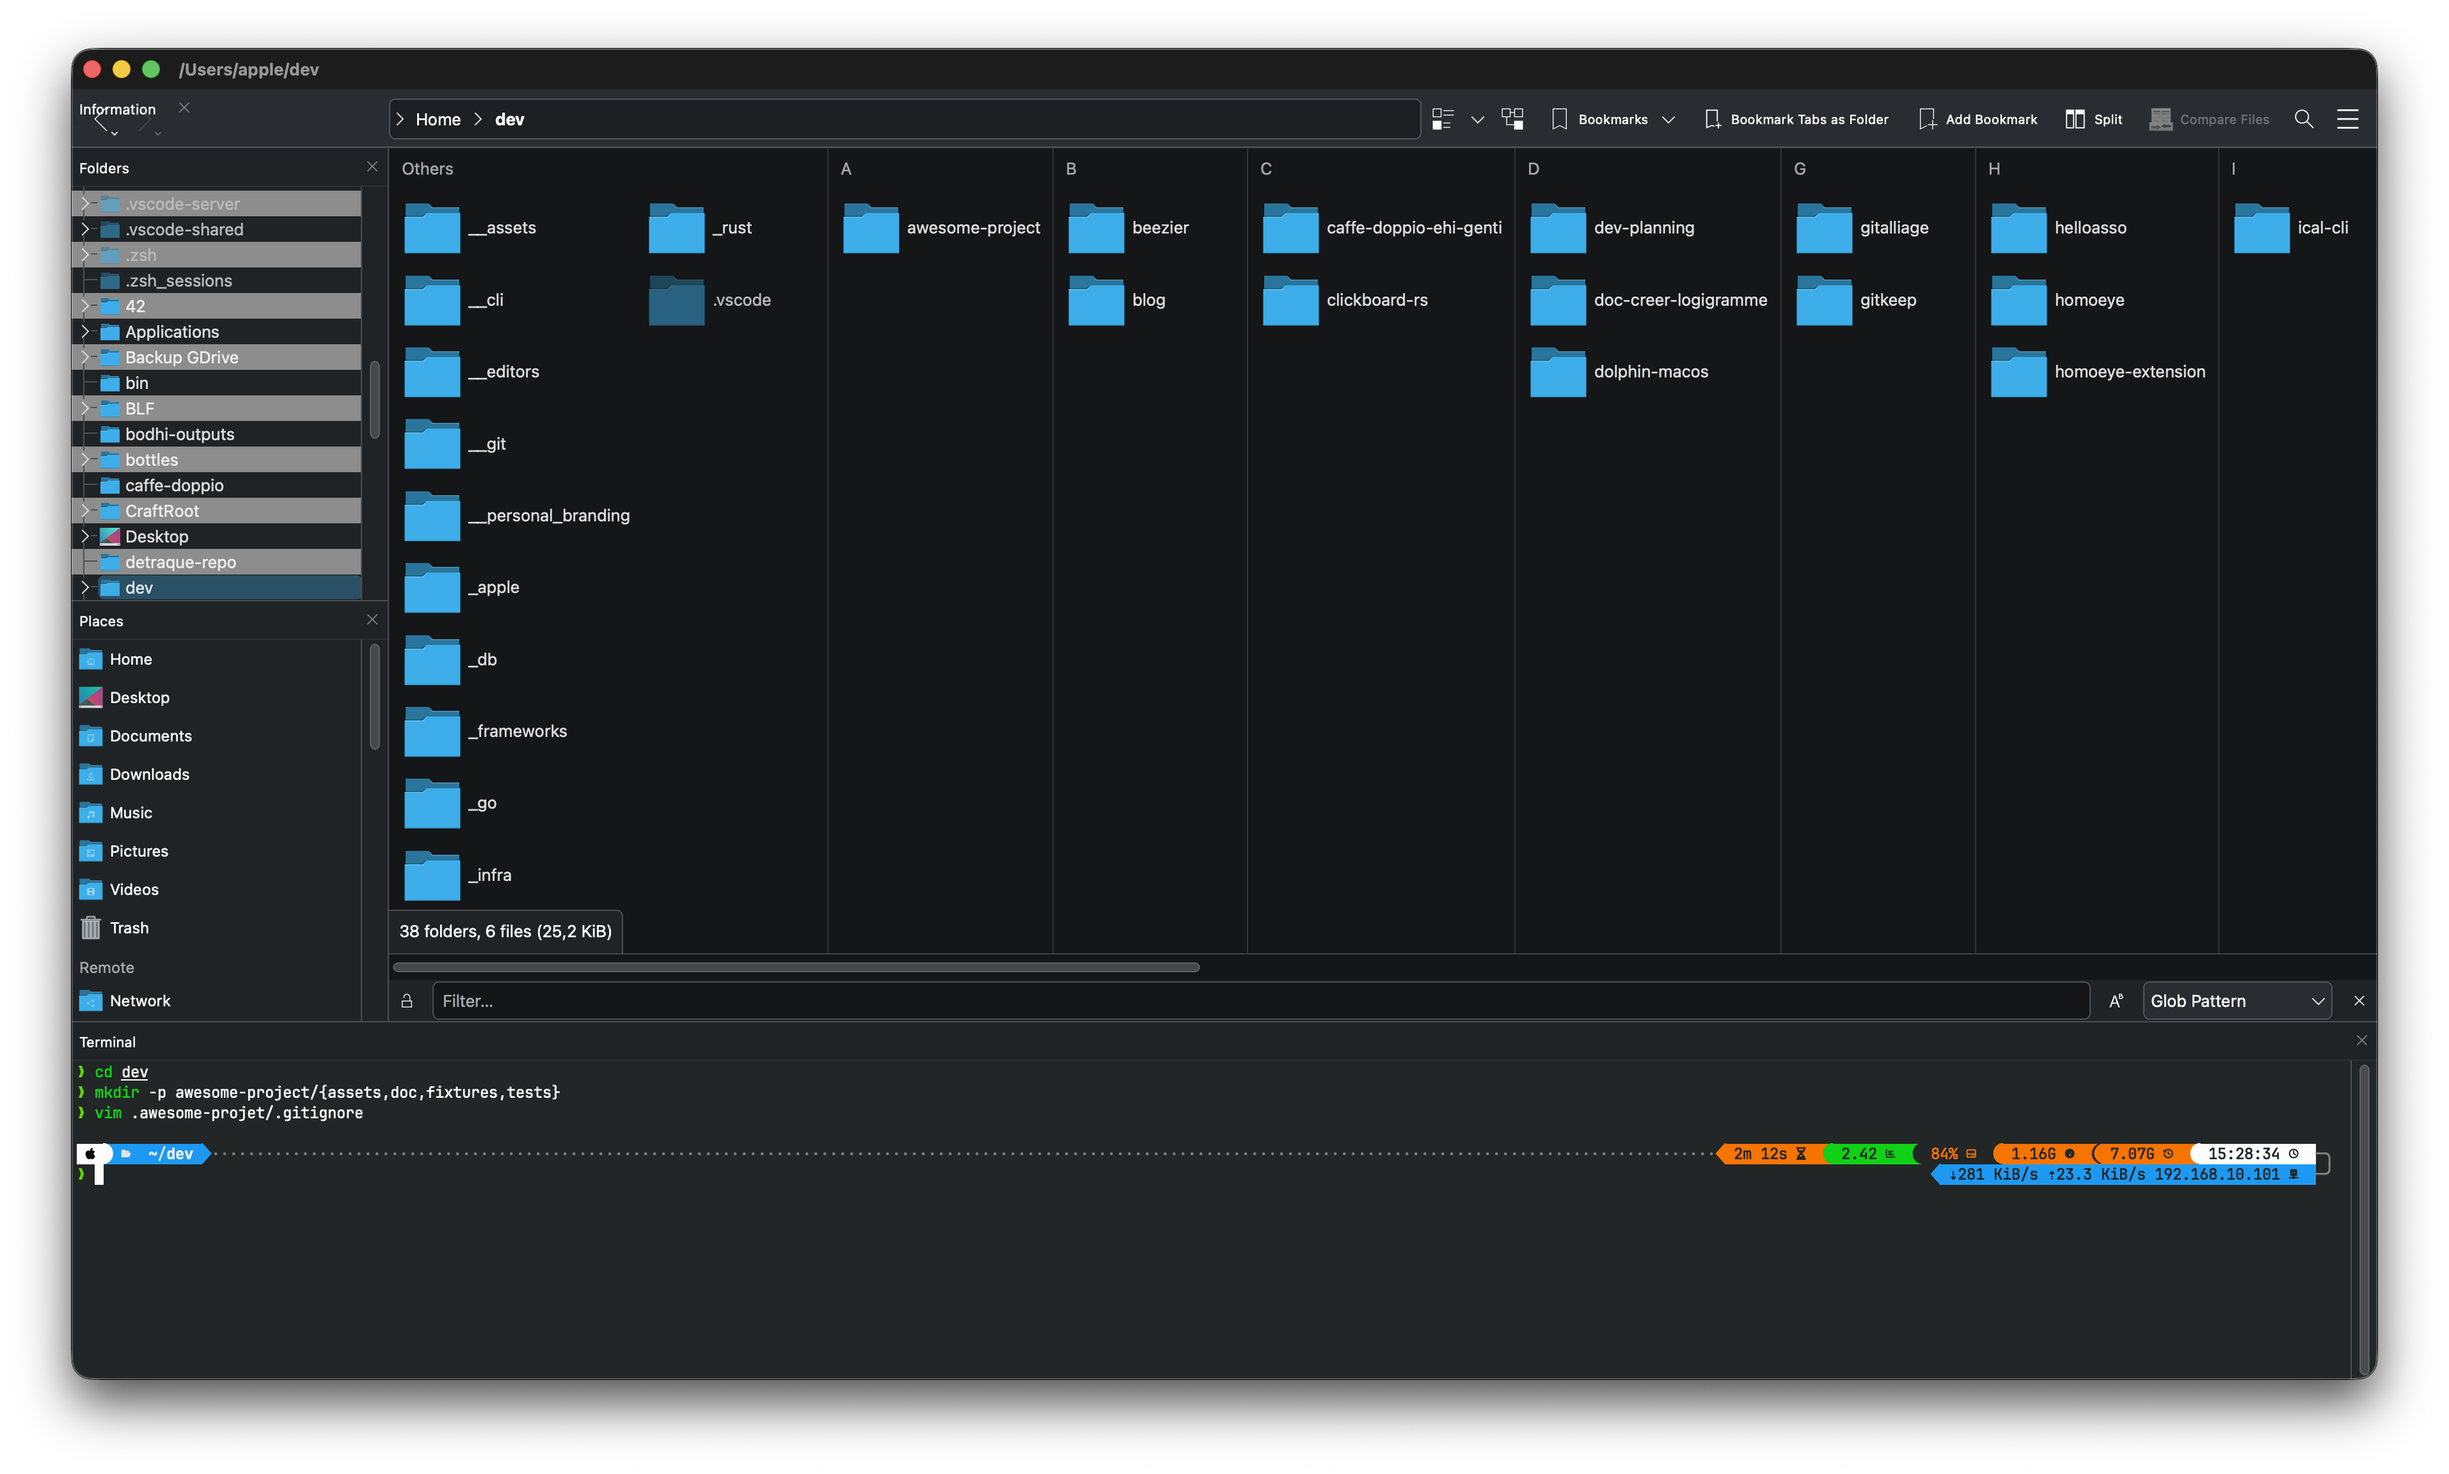
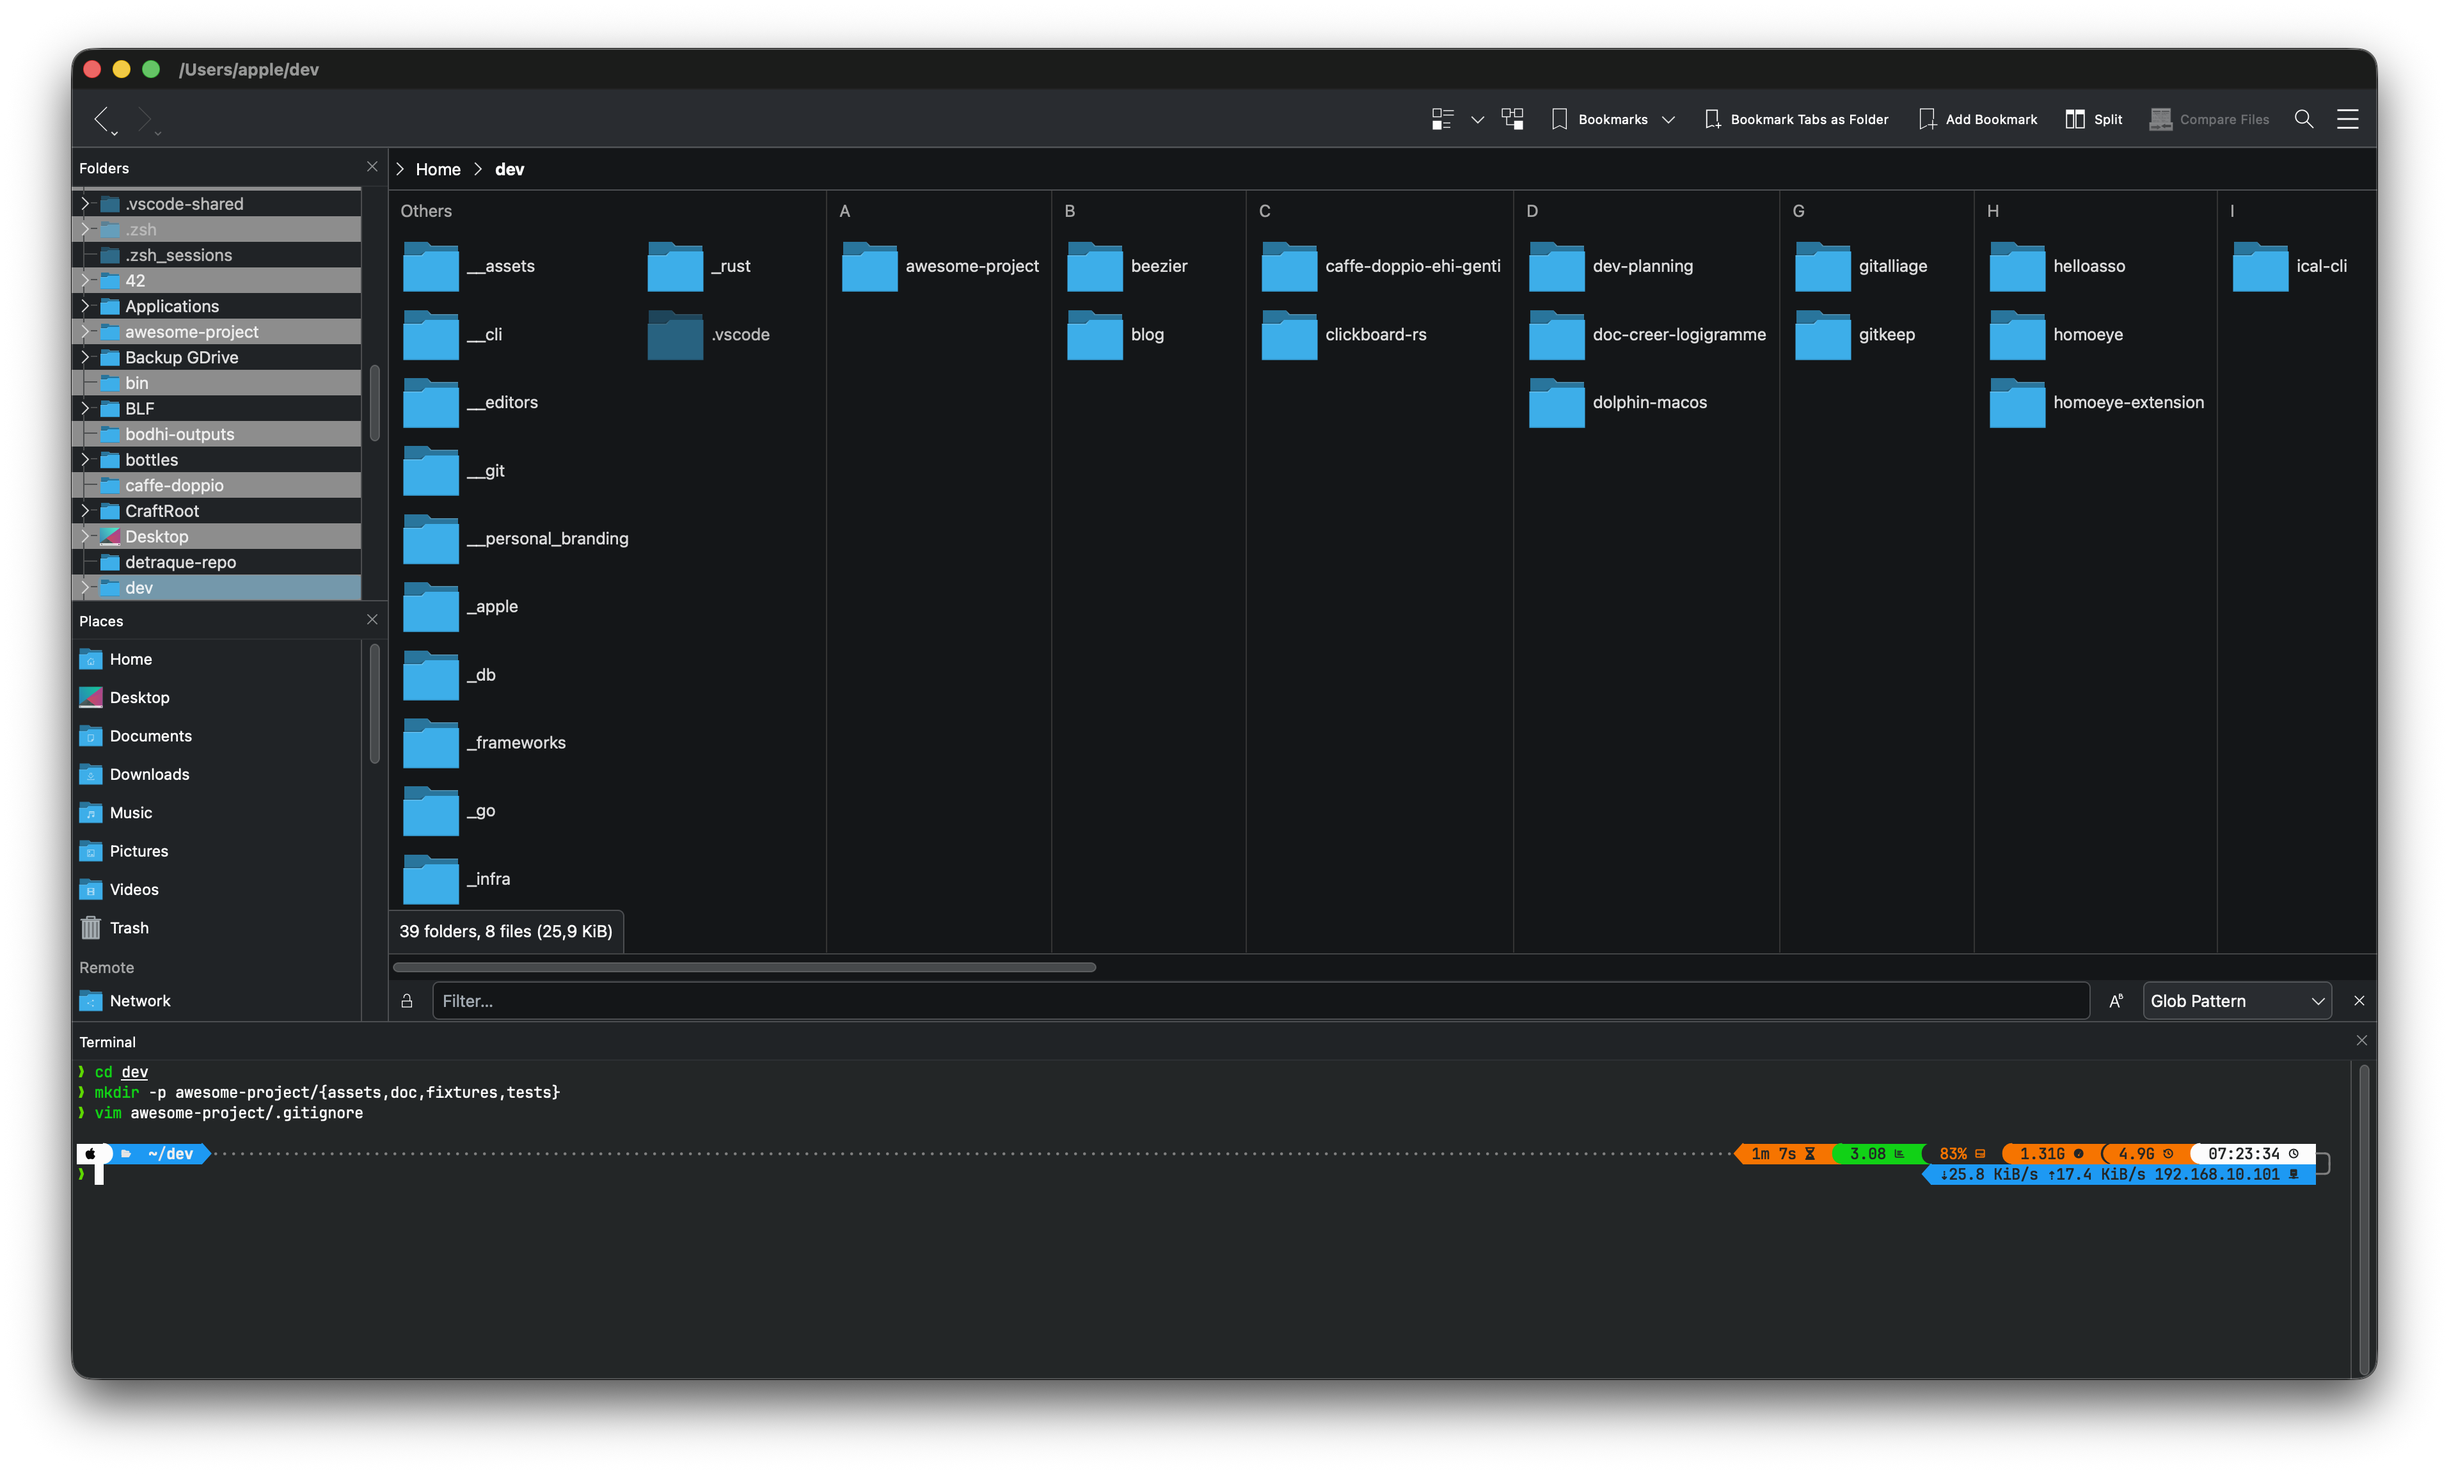
Update screenshot and bump macOS version

diff --git a/README.md b/README.md
@@ -3,7 +3,7 @@
 # 🐬 Dolphin for macOS
 
 **KDE's file manager, built for Apple silicon.**<br>
-Upstream Dolphin on KDE Frameworks 6, with the fixes it needs on macOS: it launches from the Finder and the Dock, embeds a terminal, and opens your terminal app in the current folder.
+Upstream Dolphin on @KDE Frameworks 6, with the fixes it needs on macOS: it launches from the Finder and the Dock, embeds a terminal, and opens your terminal app in the current folder.
 
 [![License: GPL-2.0-or-later](https://img.shields.io/badge/license-GPL--2.0--or--later-blue)](LICENSES/)
 [![macOS 26 · arm64](https://img.shields.io/badge/macOS_26-arm64-000000?logo=apple&logoColor=F0F0F0)](#requirements)
@@ -13,12 +13,12 @@ Upstream Dolphin on KDE Frameworks 6, with the fixes it needs on macOS: it launc
 
 ![Dolphin on macOS: a folder in icon view, the Places panel on the left, and the embedded terminal panel at the bottom with a zsh prompt in the same folder](assets/screenshots/dolphin-terminal-panel.png)
 
-<sub>Dolphin 26.11.70 on macOS 26.7.1, with the terminal panel open (<kbd>F4</kbd>).</sub>
+<sub>Dolphin 26.11.70 on macOS 26.7.2, with the terminal panel open (<kbd>F4</kbd>).</sub>
 
 </div>
 
 > [!IMPORTANT]
-> **Unofficial.** @KDE does not ship or support Dolphin on macOS. Report problems with this port here, not on bugs.kde.org, unless you have reproduced them on Linux.
+> **Unofficial.** KDE does not ship or support Dolphin on macOS. Report problems with this port here, not on bugs.kde.org, unless you have reproduced them on Linux.
 
 ## Contents
 
